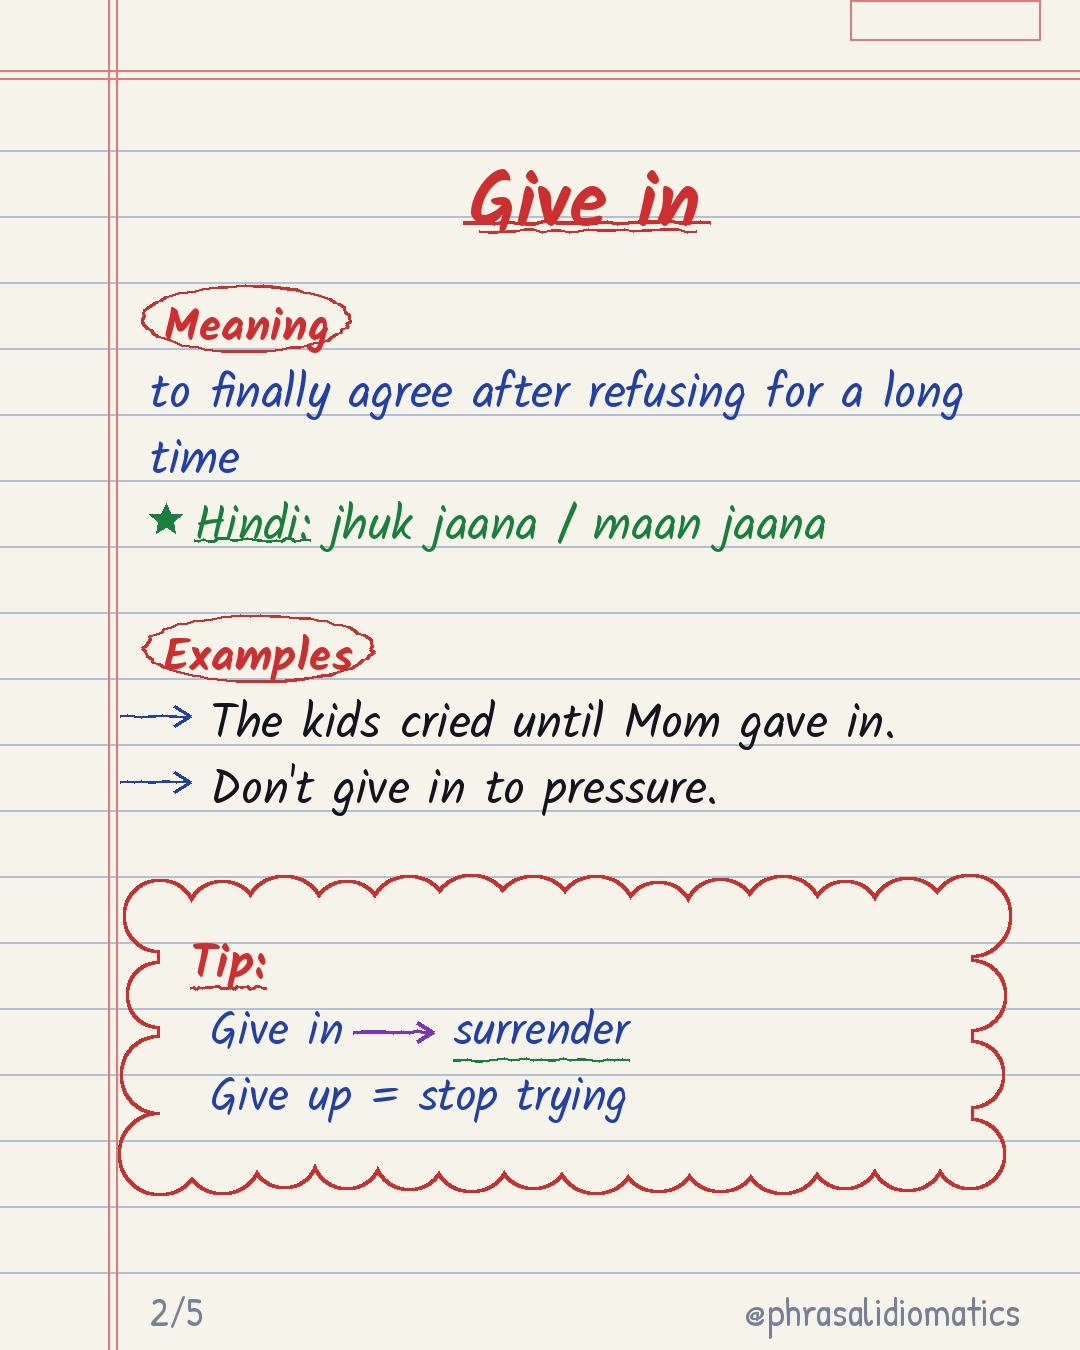
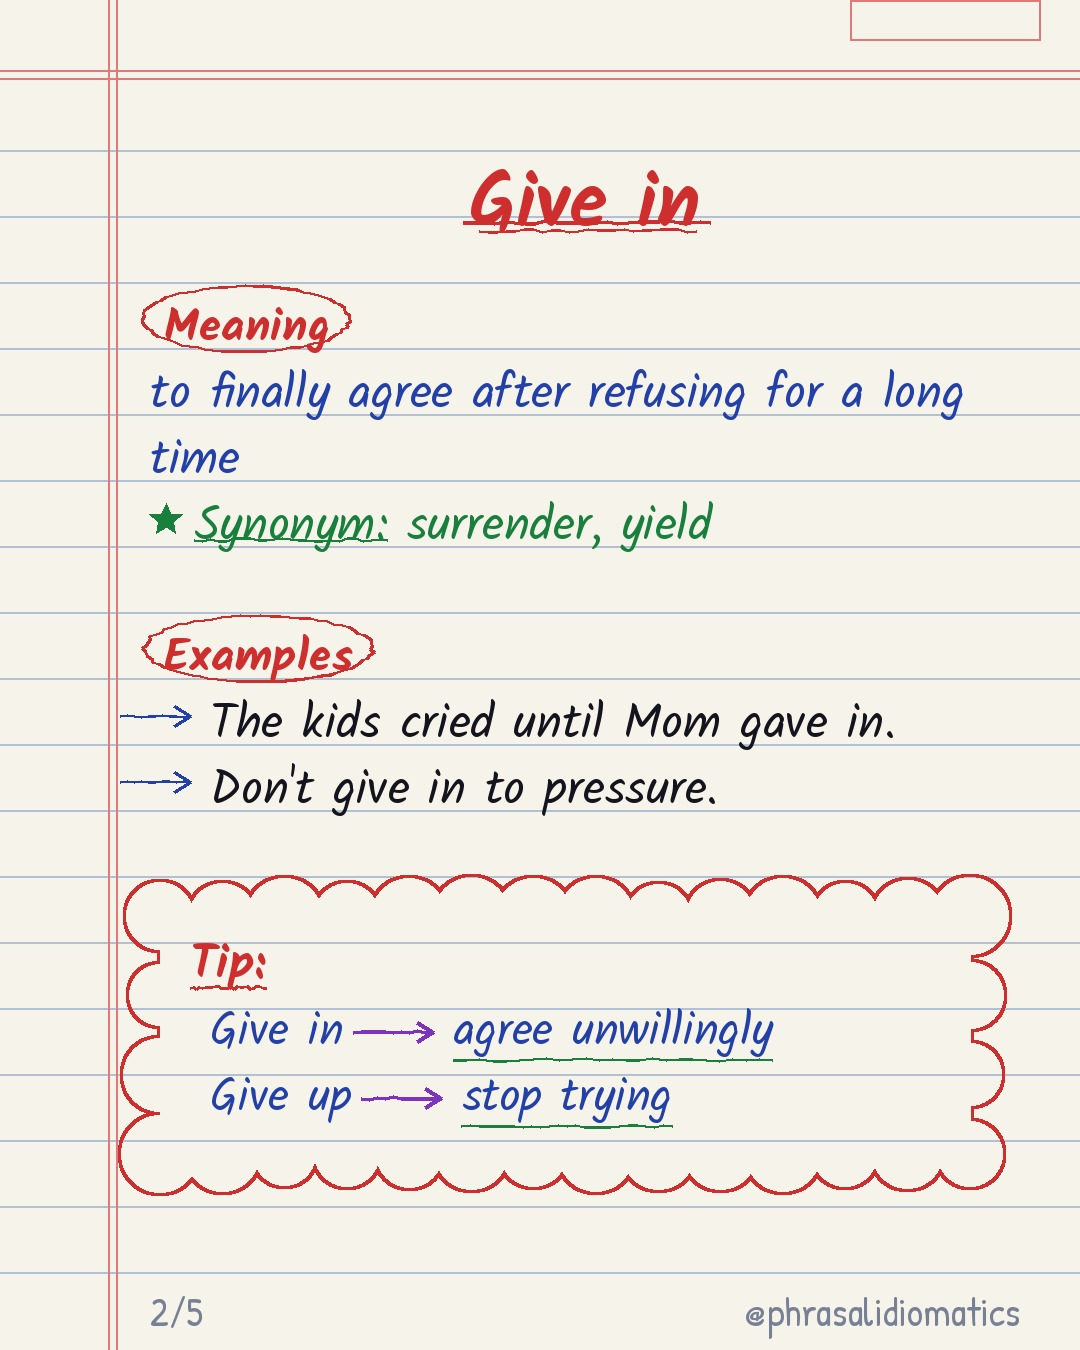
Phrasalidiomatics: English-only pages (synonym line instead of Hindi)
Claude-Session: https://claude.ai/code/session_01Hws1Emm4MmdMVU4GC3BpRK

Changed region(s): [[0.3361, 0.7467, 0.7333, 0.84], [0.1833, 0.3733, 0.7639, 0.4044]]

diff --git a/tools/make_notebook.py b/tools/make_notebook.py
@@ -5,7 +5,7 @@ content.json:
 {"handle": "phrasalidiomatics", "theme": "...",
  "pages": [{"title": "Give up",
             "meaning": "to stop trying to do something",
-            "hindi": "haar maan lena / chhod dena",
+            "synonym": "quit, stop",
             "examples": ["Never give up on your dreams.", "He gave up smoking last year."],
             "tip": ["Give up -> quit", "Don't give up -> keep going"]}]}
 In "tip" lines, "->" is drawn as a hand-drawn arrow.
@@ -136,15 +136,20 @@ def page(p, idx, total, handle, out, seed):
     ln += 1
     for row in wrap(d, p["meaning"], bf, RIGHT - LEFT - 10):
         d.text((LEFT, on_line(ln)), row, font=bf, fill=BLUE); ln += 1
-    # Hindi meaning with green star
-    star(d, LEFT + 16, TOP + ln * LH - 26, 17, GREEN)
-    hrows = wrap(d, "Hindi: " + p["hindi"], bf, RIGHT - LEFT - 60)
-    for i, row in enumerate(hrows):
-        d.text((LEFT + 44, on_line(ln)), row, font=bf, fill=GREEN)
-        if i == 0:
-            hw = d.textlength("Hindi:", font=bf)
-            wobble_line(d, (LEFT + 44, TOP + ln * LH - 6), (LEFT + 44 + hw, TOP + ln * LH - 6), GREEN, 3, rnd)
-        ln += 1
+    # optional green-star line: English synonym (or Hindi meaning if a channel uses it)
+    extra = None
+    if p.get("synonym"): extra = ("Synonym:", p["synonym"])
+    elif p.get("hindi"): extra = ("Hindi:", p["hindi"])
+    if extra:
+        lab2, val = extra
+        star(d, LEFT + 16, TOP + ln * LH - 26, 17, GREEN)
+        hrows = wrap(d, lab2 + " " + val, bf, RIGHT - LEFT - 60)
+        for i, row in enumerate(hrows):
+            d.text((LEFT + 44, on_line(ln)), row, font=bf, fill=GREEN)
+            if i == 0:
+                hw = d.textlength(lab2, font=bf)
+                wobble_line(d, (LEFT + 44, TOP + ln * LH - 6), (LEFT + 44 + hw, TOP + ln * LH - 6), GREEN, 3, rnd)
+            ln += 1
     ln += 1
     # circled "Examples"
     lab = "Examples"
